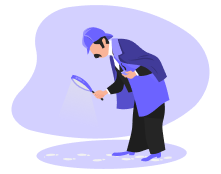
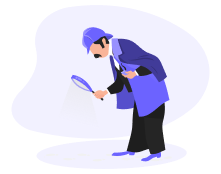
edit delete buttons

diff --git a/index.js b/index.js
@@ -10,8 +10,8 @@ document.addEventListener('DOMContentLoaded', (event) => {
 const button = document.getElementById("button2");
 const modalcontent = document.getElementById("modalcontent");
 const buttons = document.getElementById("buttons");
-
-
+const deleteBtn = document.getElementById("delete-btn");
+const editBtn = document.getElementById("edit-btn");
 
 //тема
 
@@ -19,15 +19,13 @@ button.addEventListener("click", function () {
     // Просто переключаем класс 'dark-mode' на body
     document.body.classList.toggle('dark-mode');
 
-    // Остальная ваша логика переключения классов для других элементов остается прежней
+
     if (document.body.classList.contains('dark-mode')) {
-        // Логика для темного режима (когда класс dark-mode добавлен)
         modalcontent.classList.remove('light');
         modalcontent.classList.add('dark');
         button2.classList.remove('moon');
         button2.classList.add('sun');
     } else {
-        // Логика для светлого режима (когда класс dark-mode удален)
         modalcontent.classList.remove('dark');
         modalcontent.classList.add('light');
         button2.classList.remove('sun');
@@ -113,6 +111,10 @@ apply.addEventListener("click", function () {
         <div class="note">
        <input type="checkbox" id="checkbox" name="checkbox1">
           <label for="checkbox"><span>${noteText}</span></label>
+          <div class="noteactions">
+              <button class="editbtn" id="editbtn" aria-label="Edit note"><svg class="editsvg"></svg></button>
+              <button class="deletebtn" id="deletebtn" aria-label="Delete note"><svg class="deletesvg"></svg></button>
+          </div>
         </div>
             <hr style="border-color: rgb(199, 199, 255); width: 700px" />
         </div>
@@ -305,3 +307,47 @@ function filterNotes() {
 selectAll.addEventListener('change', filterNotes);
 
 
+document.addEventListener('DOMContentLoaded', () => {
+    // 1. Получаем основной контейнер заметок
+    const notesContainer = document.querySelector('.notes');
+
+    // 2. Добавляем единый слушатель событий на весь контейнер
+    notesContainer.addEventListener('click', (event) => {
+
+        // --- Логика Удаления Заметки ---
+        // Проверяем, была ли нажата кнопка с классом 'delete-btn' или её изображение внутри
+        const deleteButton = event.target.closest('.deletebtn');
+        if (deleteButton) {
+            // Находим ближайший родительский элемент, который оборачивает заметку и <hr>
+            const fullNoteWrapper = deleteButton.closest('.forhr');
+            if (fullNoteWrapper) {
+                // Удаляем весь этот элемент из DOM
+                fullNoteWrapper.remove();
+                console.log('Заметка удалена.');
+            }
+        }
+
+        // --- Логика Редактирования Заметки ---
+        // Проверяем, была ли нажата кнопка с классом 'edit-btn' или её изображение внутри
+        const editButton = event.target.closest('.editbtn');
+        if (editButton) {
+            // Находим родительский контейнер заметки (.note)
+            const noteElement = editButton.closest('.note');
+            // Находим элемент <span> внутри <label>, который содержит текст
+            const noteTextSpan = noteElement.querySelector('label span');
+
+            if (noteTextSpan) {
+                // Запрашиваем новый текст
+                const newText = prompt('Введите новый текст для заметки:', noteTextSpan.textContent);
+
+                // Если пользователь не отменил ввод и ввел текст
+                if (newText !== null && newText.trim() !== '') {
+                    noteTextSpan.textContent = newText.trim();
+                    console.log('Заметка отредактирована.');
+                } else if (newText !== null) {
+                    alert('Текст заметки не может быть пустым.');
+                }
+            }
+        }
+    });
+});

diff --git a/index.css b/index.css
@@ -141,7 +141,7 @@ body.dark-mode #inputtt {
   align-content: center;
   margin-left: 15%;
   height: 50px;
-  width: 600px;
+  width: 700px;
   font-weight: bold;
 }
 input[type="checkbox"] {
@@ -343,4 +343,71 @@ body.dark-mode #apply:hover {
   
 }
 
+.noteactions {
+ 
+    visibility: hidden; 
+    opacity: 0;      
+    display: flex;      
+    justify-content: end;
+    margin-left: 470px;
+    gap: 10px;
+    transition: all 0.3s ease; 
+}
 
+.note:hover .noteactions {
+    visibility: visible; 
+    opacity: 1;          
+}
+
+.editbtn {
+  width: 30px;
+height: 30px;
+      border: 0px solid white;
+  background-color: transparent;
+  transition: 0.3s;  
+}
+
+.deletebtn {
+width: 30px;
+height: 30px;
+      border: 0px solid white;
+       background-color: transparent;
+ transition: 0.3s;
+}
+
+.editbtn:hover {
+  width: 30px;
+height: 30px;
+      border: 0px solid white;
+   transform: scale(1.09);
+}
+
+.deletebtn:hover {
+width: 30px;
+height: 30px;
+      border: 0px solid white;
+      stroke:rgb(59, 59, 231);
+fill:rgb(59, 59, 231);
+  transform: scale(1.09); 
+}
+
+.editsvg {
+  width: 27px;
+height: 27px;
+background-size: cover;
+  background-image: url("edit.svg");
+}
+.editsvg:hover {
+    stroke:rgb(59, 59, 231);
+fill:rgb(59, 59, 231);
+}
+.deletesvg {
+  width: 30px;
+height: 30px;
+background-size: cover;
+  background-image: url("delete.svg");
+}
+.delete:hover {
+    stroke:rgb(59, 59, 231);
+fill:rgb(59, 59, 231);
+}
